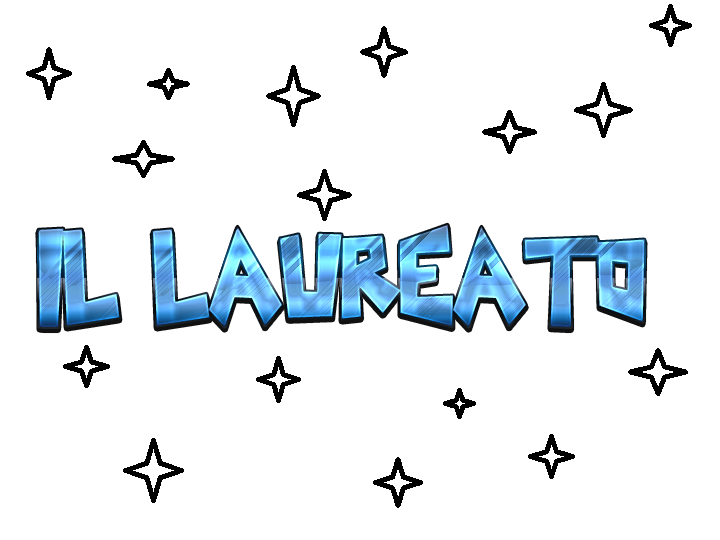
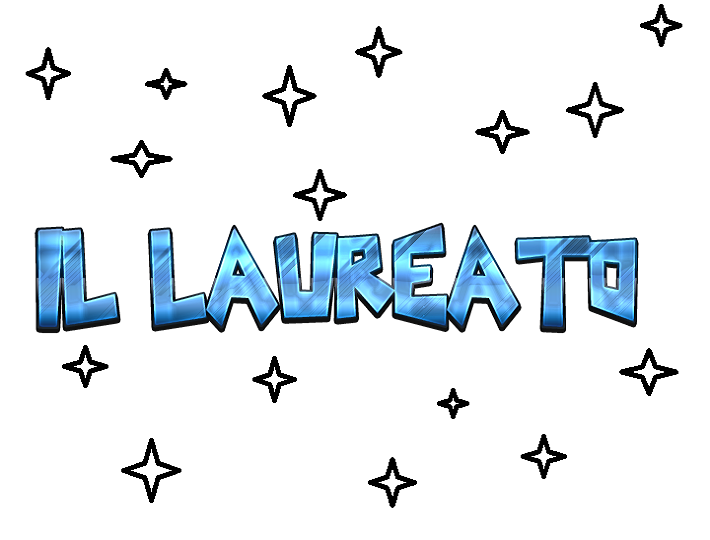
nell'editor messo il pannello centrale

diff --git a/IlLaureato/src/gui/editor/EditorTavolaDiGioco.java b/IlLaureato/src/gui/editor/EditorTavolaDiGioco.java
@@ -5,6 +5,8 @@ import java.util.Iterator;
 import java.util.Optional;
 
 import gui.panels.SceltaEditor;
+import javafx.beans.value.ChangeListener;
+import javafx.beans.value.ObservableValue;
 import javafx.event.Event;
 import javafx.event.EventHandler;
 import javafx.geometry.Insets;
@@ -19,6 +21,7 @@ import javafx.scene.image.ImageView;
 import javafx.scene.input.MouseEvent;
 import javafx.scene.layout.BorderPane;
 import javafx.scene.layout.FlowPane;
+import javafx.scene.layout.Pane;
 import javafx.scene.layout.VBox;
 import javafx.stage.Stage;
 import jdbc.ScrittoreConfigurazione;
@@ -29,15 +32,45 @@ public class EditorTavolaDiGioco extends TavolaGridPane {
    private Scene scene;
 
    private BorderPane mainPane;
+   private Pane centro;
    private VBox paletteCaselle;
 
    private Button salva;
    private Button indietro;
 
+   private boolean schermoIntero=false;
+
    public EditorTavolaDiGioco(Stage stage) throws SQLException {
       super(11, 11);
 
       this.stage = stage;
+      this.centro = new Pane();
+
+      this.centro.getChildren().add(new ImageView("file:icone/ilLaureato.png"));
+      this.centro.setTranslateX(146); //233 121
+      this.centro.setTranslateY(118);
+
+//       addListener(new ChangeListener<Number>() {
+//         @Override
+//         public void changed(ObservableValue<? extends Number> observableValue,
+//               Number oldSceneWidth, Number newSceneWidth) {
+//               System.err.println("entrato nel listener");
+//               if(schermoIntero) {
+//                  centro.setTranslateX(233);
+//                  centro.setTranslateY(121);
+//                  schermoIntero = false;
+//               }
+//               else {
+//                  centro.setTranslateX(146);
+//                  centro.setTranslateY(118);
+//                  schermoIntero = true;
+//               }
+//         }});
+
+      this.setOnMouseClicked(e -> {
+         System.err.println("X: "+e.getSceneX());
+         System.err.println("Y: "+e.getSceneY());
+      });
 
       salva = new Button("Salva");
       indietro = new Button("Menu");
@@ -92,7 +125,6 @@ public class EditorTavolaDiGioco extends TavolaGridPane {
       mainPane.setPrefHeight(720);
 
       setStyle("-fx-background-color: DAE6F3;");
-
       mainPane.setTop(new ImageView(new Image("file:icone/editor.png")));
       BorderPane.setAlignment(mainPane.getTop(), Pos.CENTER);
 
@@ -106,6 +138,7 @@ public class EditorTavolaDiGioco extends TavolaGridPane {
       scene = new Scene(mainPane);
       scene.getStylesheets().add("css/mainCss.css");
 
+      mainPane.getChildren().add(centro);
       this.stage.setScene(scene);
       this.stage.centerOnScreen();
       this.stage.setResizable(true);
